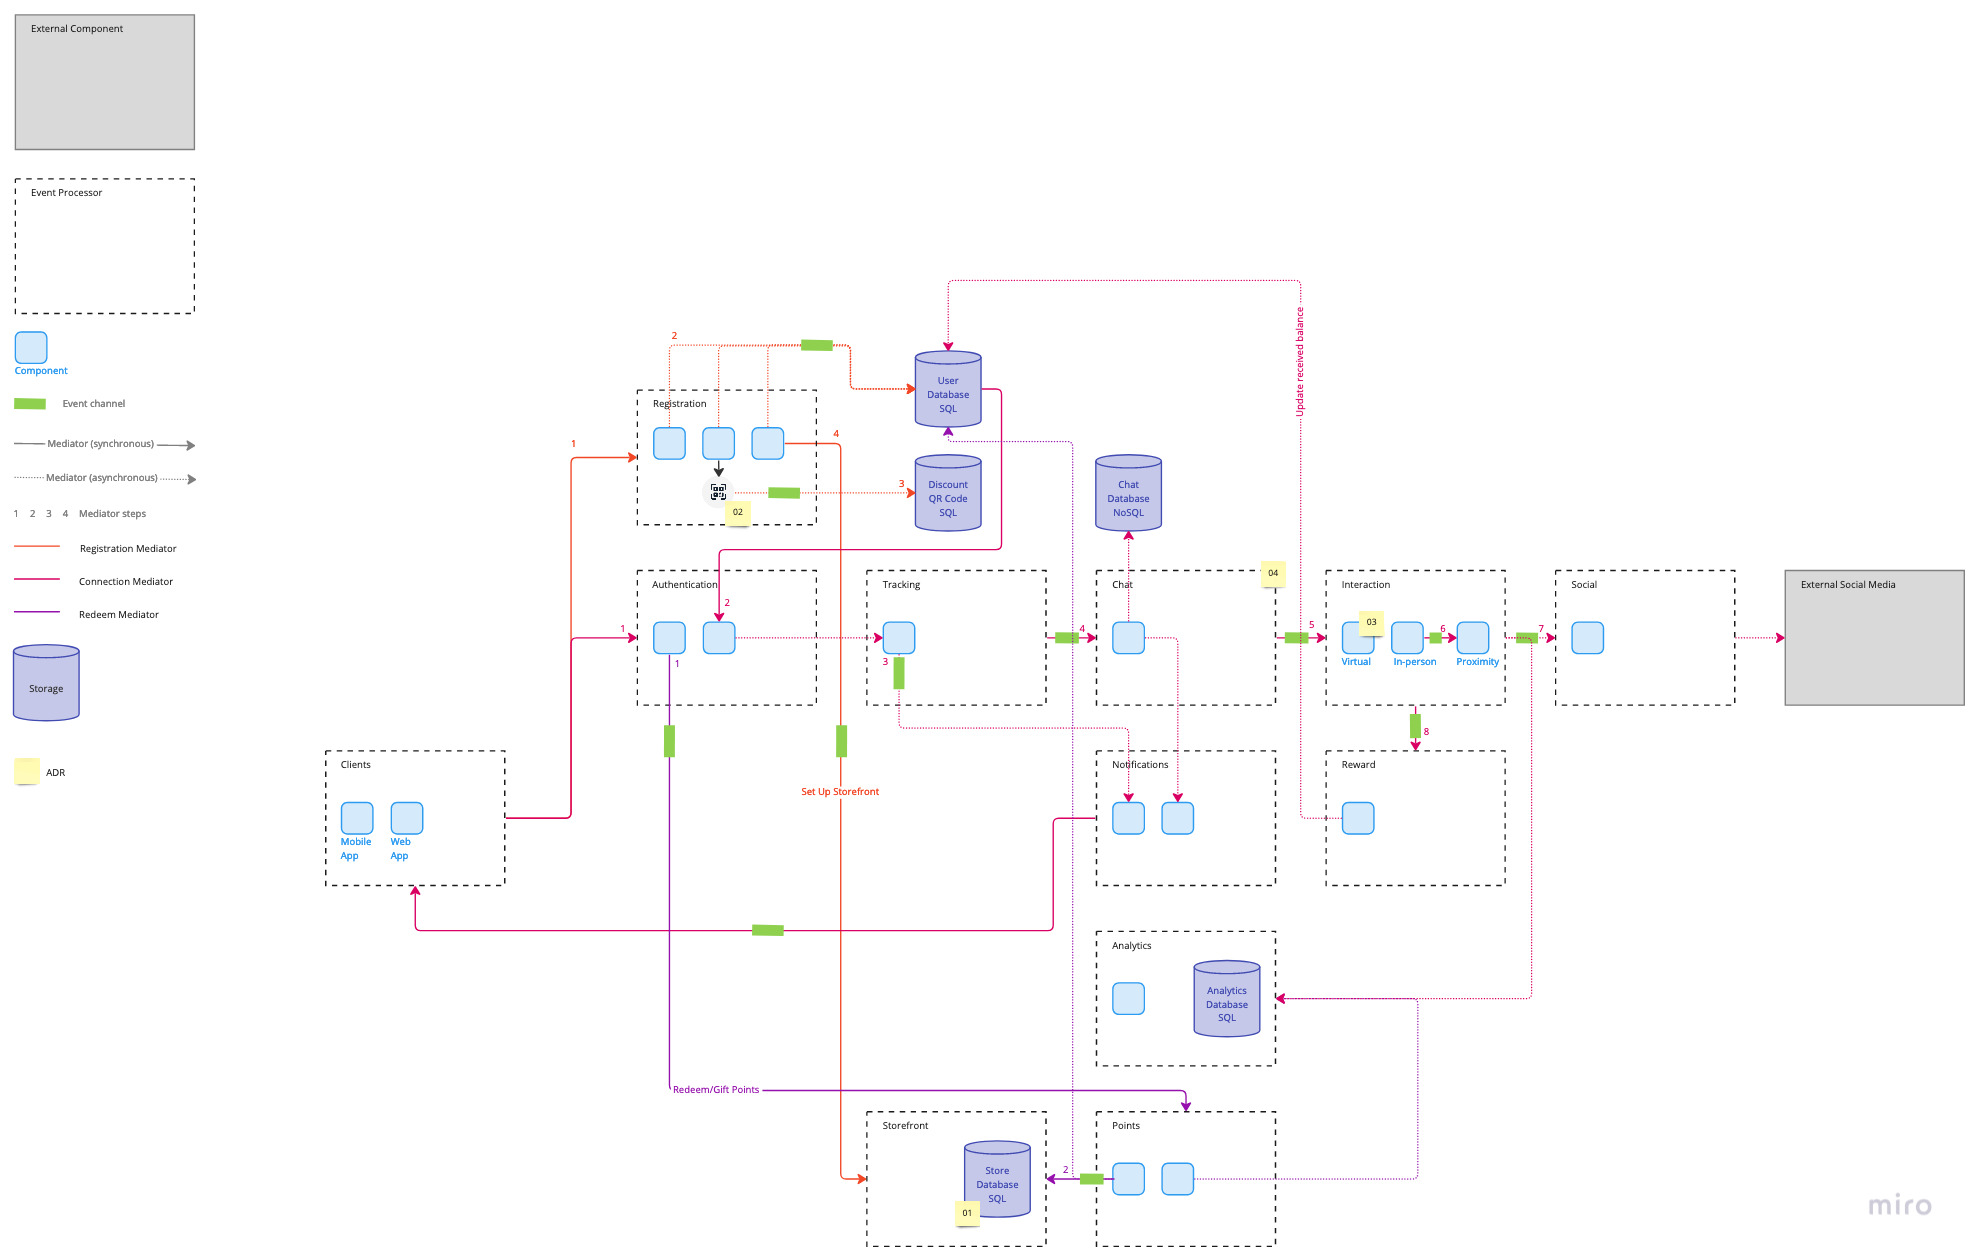
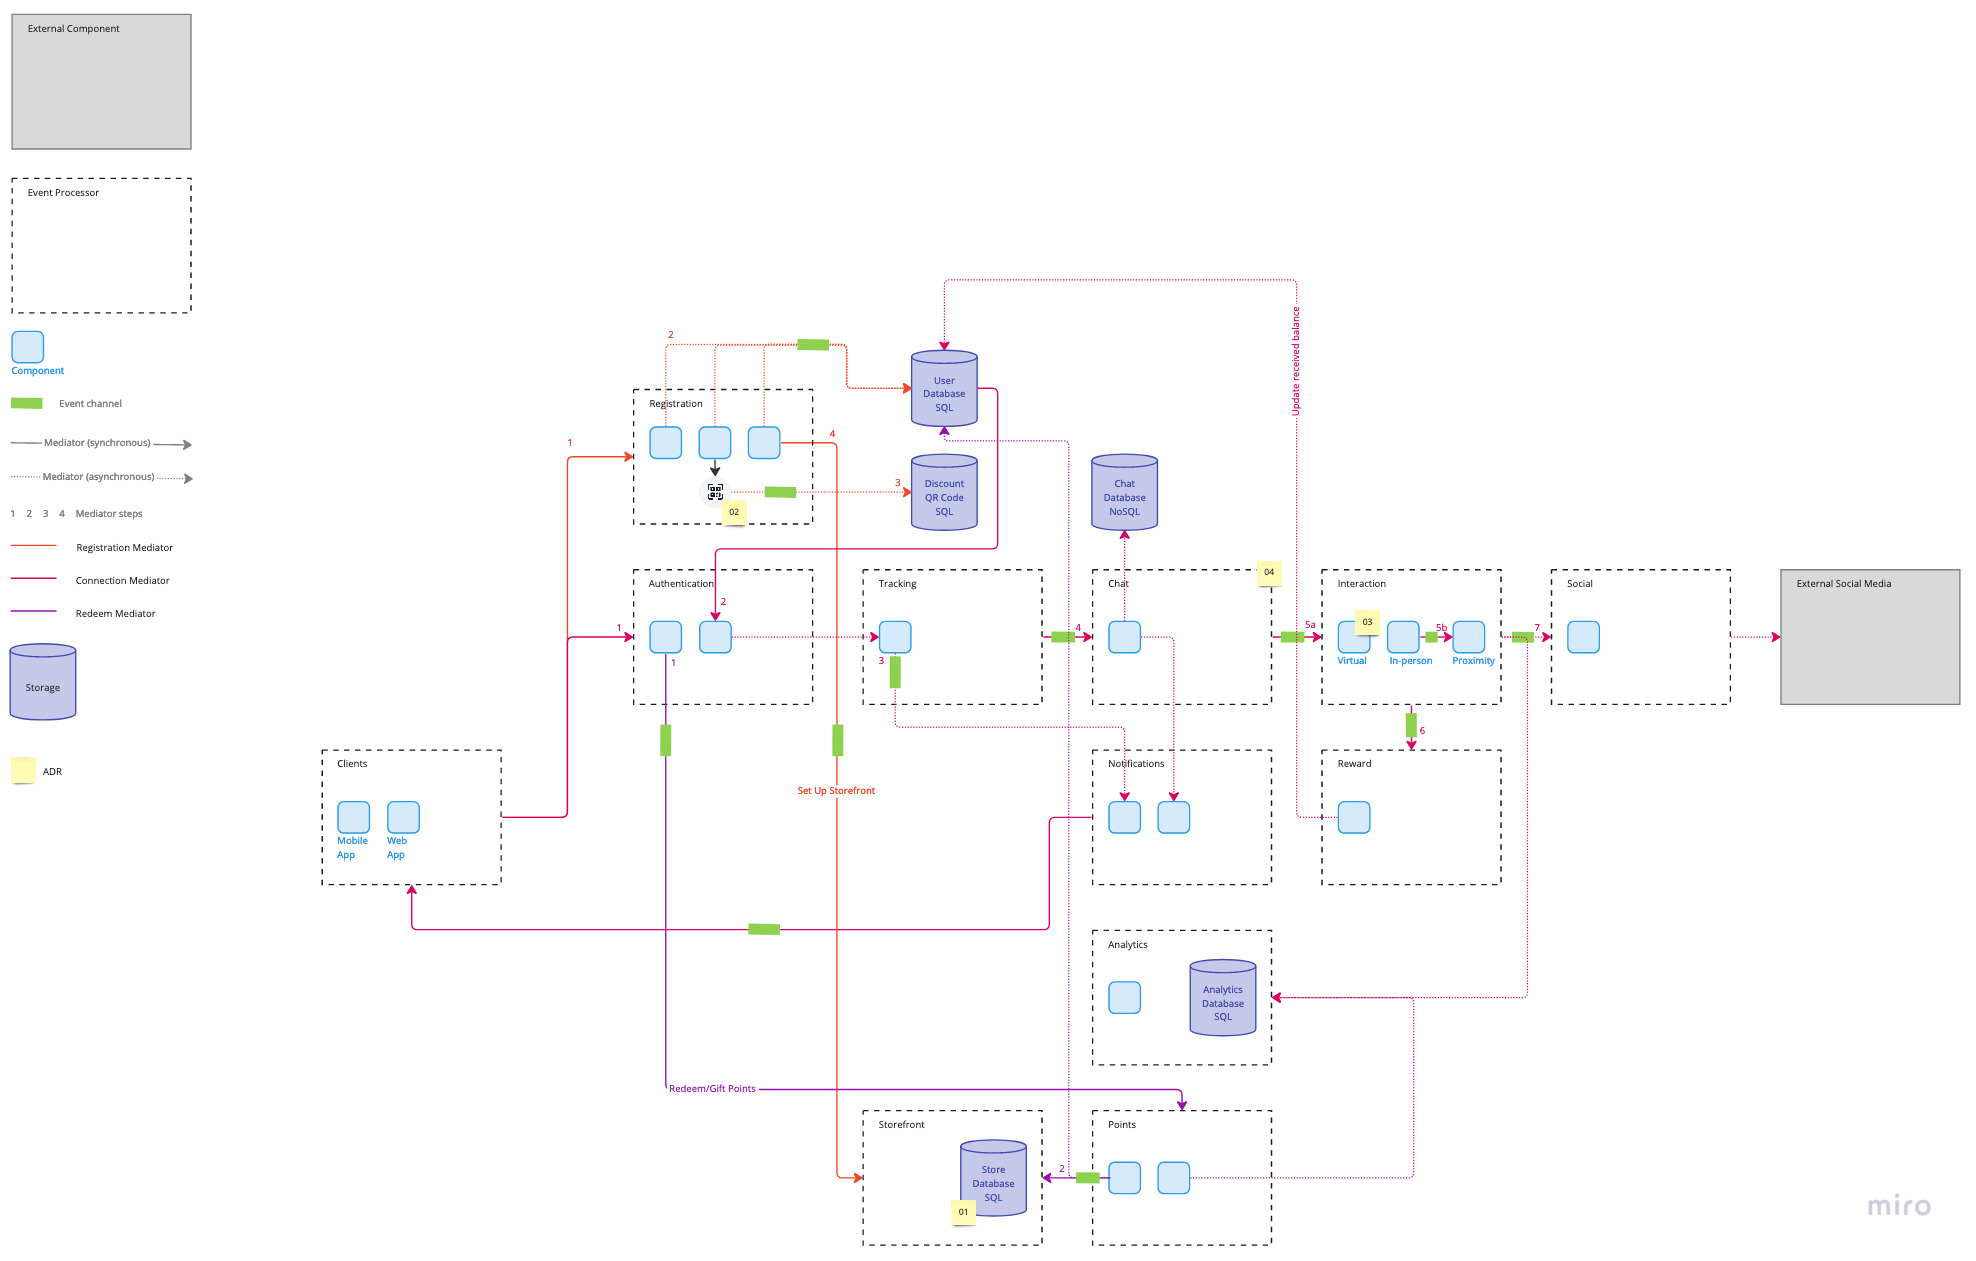
Add mediator diagrams

diff --git a/solution/high_level_architecture.md b/solution/high_level_architecture.md
@@ -4,6 +4,19 @@ The high-level architecture brings together the [architecture analysis](./archit
 
 ![High-Level Architecture](../assets/high_level_architecture.jpg)
 
+Below are the three mediators, represented step-by-step for their respective workflows. Note that each mediator has the same color as in the high-level architecture diagram, along with the step numbers denoted in all diagrams for consistency.
+
+## Registration Mediator
+
+![Registration Mediator](../assets/registration_mediator.jpg)
+
+## Connection Mediator
+
+![Connection Mediator](../assets/connection_mediator.jpg)
+
+## Redeem Mediator
+
+![Redeem Mediator](../assets/redeem_mediator.jpg)
 
 ### ADR Links
 - [01 - Limiting Storefront to Electronic Goods and Online Rebates](./adr/01-electronic-goods.md)
